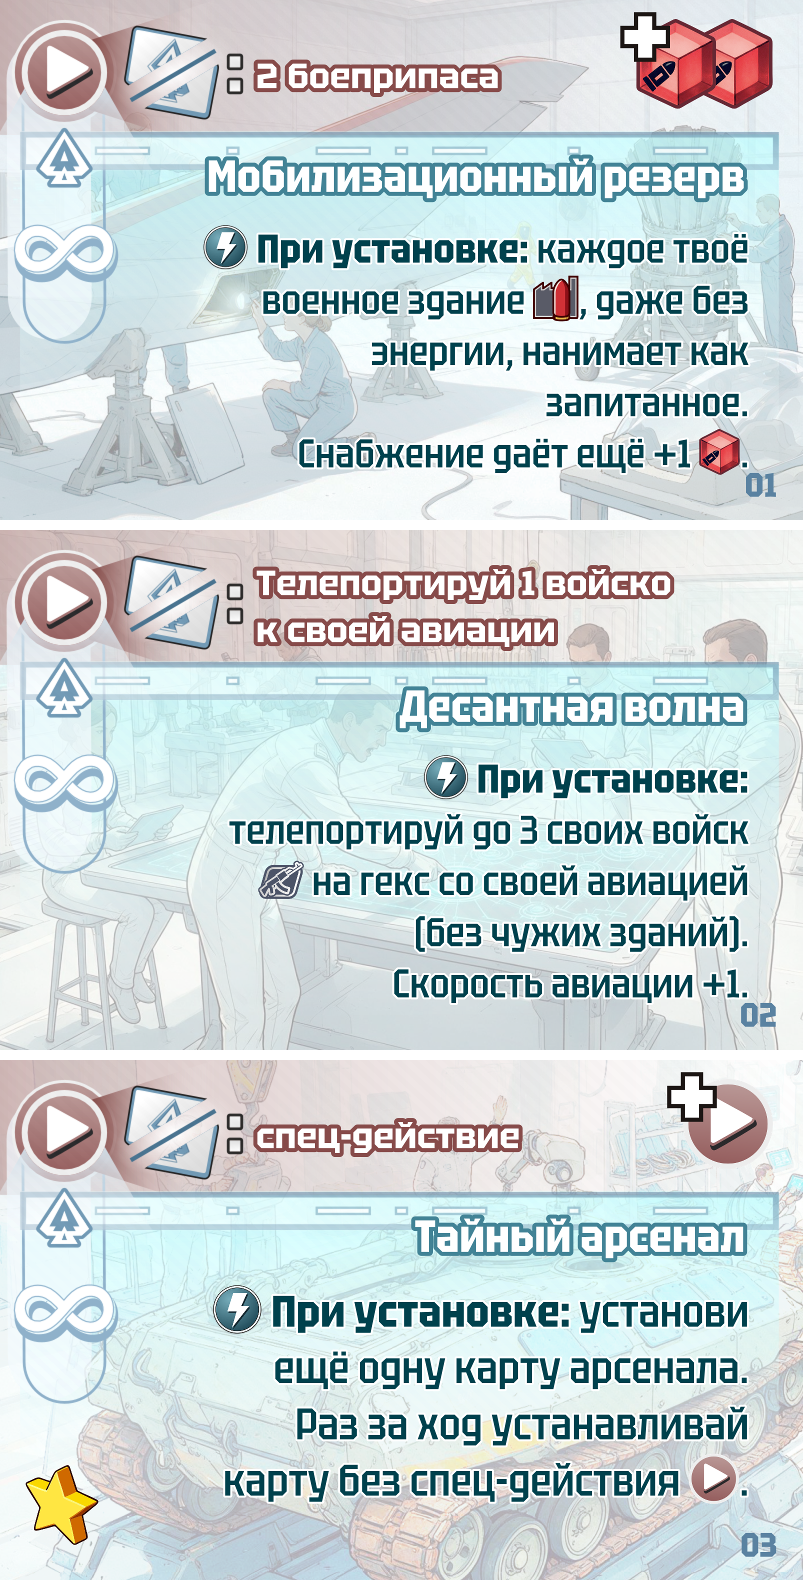
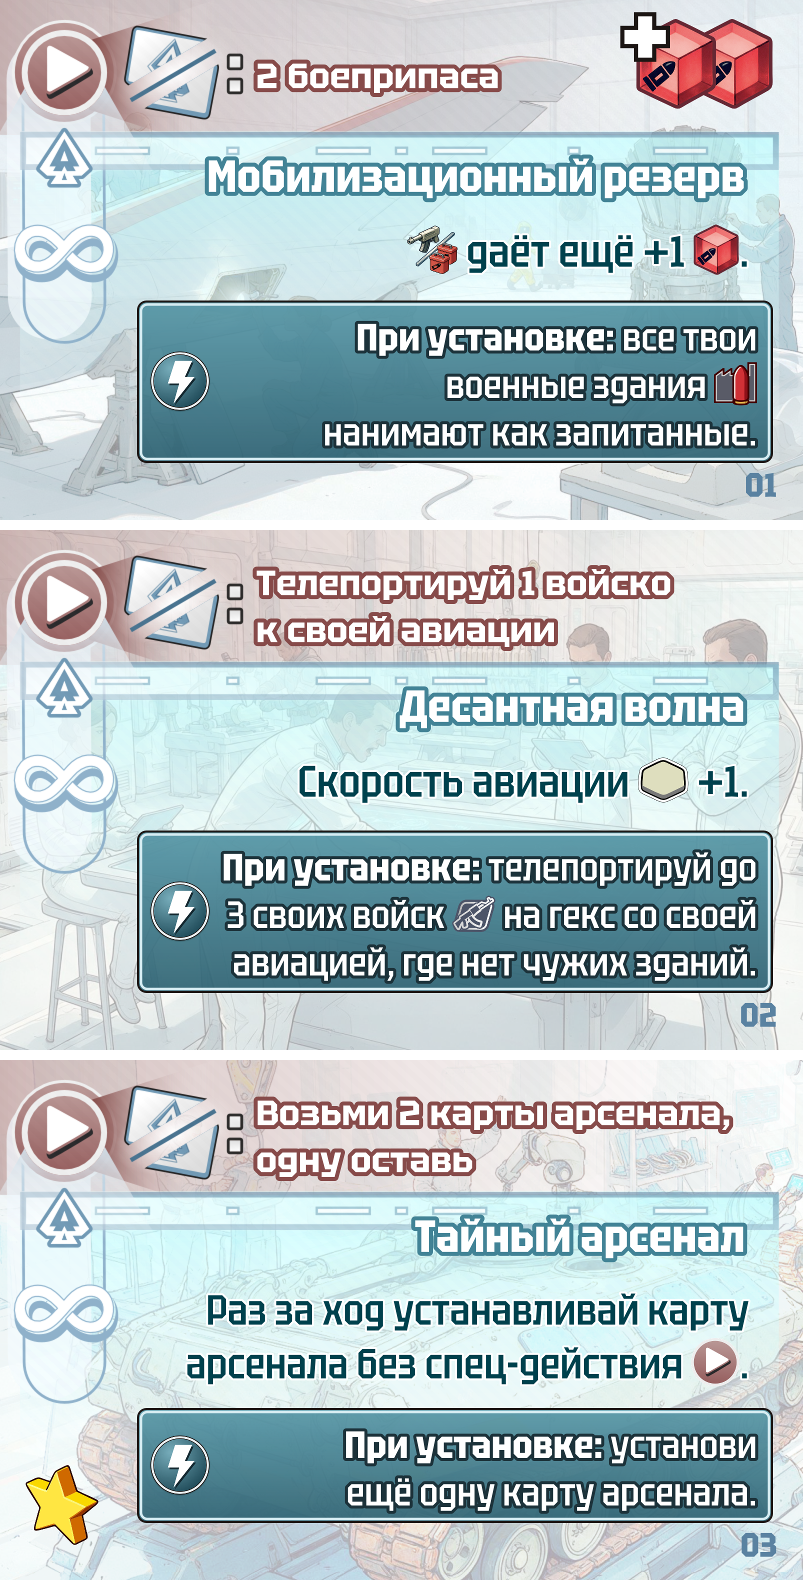
Мастерская: поле «при установке» — разовый эффект внизу на подложке цвета арсенала со значком, постоянный эффект над ней; ровный перенос строк без одинокого слова

diff --git a/gui/src/main/java/kelium/gui/cardshop/CardRender.java b/gui/src/main/java/kelium/gui/cardshop/CardRender.java
@@ -1032,9 +1032,19 @@ public final class CardRender {
             if (c.integer("отступ_слева", 0) <= 0 && lowSize(k, low, 44, leftX, rightX, topY) < 40) {
                 leftX = Math.min(leftX, 150);
             }
-            arsenalLow(k, low, 44, leftX, rightX, th.text(), topY);
+            arsenalLow(k, low, 44, leftX, rightX, th.text(), topY,
+                onInstallTop(k, c, c.integer("отступ_слева", 0) > 0 ? c.integer("отступ_слева", 0) : 150) - 8);
         }
         if (!low.isBlank()) {
+            k.end();
+        }
+        String inst = c.text("при_установке");
+        if (!inst.isBlank()) {
+            double lx = c.integer("отступ_слева", 0) > 0 ? c.integer("отступ_слева", 0) : 150;
+            if (k.begin("при_установке", lx - 12, onInstallTop(k, c, lx), 772 - lx + 12,
+                486 - onInstallTop(k, c, lx))) {
+                onInstallPlate(k, inst, lx, th);
+            }
             k.end();
         }
         if (!c.text("ряд").isBlank()) {
@@ -1238,7 +1248,17 @@ public final class CardRender {
     /** Постоянный эффект: по правому краю, **жирное**, иконки в строке, свой перенос. */
     static void arsenalLow(CardCanvas k, String text, double px, double leftX, double rightX,
                            Color ink, double top) {
-        double bottom = 478;
+        arsenalLow(k, text, px, leftX, rightX, ink, top, 478);
+    }
+
+    /**
+     * Постоянный эффект до нижней границы {@code bottom}. РОВНЫЙ ПЕРЕНОС
+     * (дизайнер 13.10.2026: «зачем перенёс слово на новую строчку, влезло бы в
+     * три»): при том же числе строк ширина ужимается, пока строк не станет
+     * больше, — строки выходят ровными, без одинокого слова в конце.
+     */
+    static void arsenalLow(CardCanvas k, String text, double px, double leftX, double rightX,
+                           Color ink, double top, double bottom) {
         List<String> lines;
         double step;
         Font f;
@@ -1256,12 +1276,96 @@ public final class CardRender {
             }
             px -= 1;
         }
+        lines = balanced(k, text, f, fb, px, (rightX - leftX) * 2, lines.size());
         double y = top + step / 2;
         final double pxF = px;
         for (String l : lines) {
             k.line(l, f, fb, rightX, y, 'r', ink, CardCanvas.WHITE, 2,
                 (t, p) -> arsIcon(k, t, pxF), px, true);
             y += step;
+        }
+    }
+
+    /** Ровный перенос: самая узкая ширина, при которой строк столько же. */
+    static List<String> balanced(CardCanvas k, String text, Font f, Font fb, double px,
+                                 double width, int n) {
+        double lo = width * 0.45;
+        double hi = width;
+        for (int it = 0; it < 18; it++) {
+            double mid = (lo + hi) / 2;
+            int m = 0;
+            for (String para : text.split("\n")) {
+                m += wrapGreedy(k, para, f, fb, px, mid).size();
+            }
+            if (m <= n) {
+                hi = mid;
+            } else {
+                lo = mid;
+            }
+        }
+        List<String> out = new ArrayList<>();
+        for (String para : text.split("\n")) {
+            out.addAll(wrapGreedy(k, para, f, fb, px, hi));
+        }
+        return out;
+    }
+
+    /** Верх подложки «при установке»: по числу строк её текста (нет поля — 478). */
+    static double onInstallTop(CardCanvas k, CardSpec c, double leftX) {
+        String inst = c.text("при_установке");
+        if (inst.isBlank()) {
+            return 486;
+        }
+        int n = onInstallLines(k, inst, leftX).size();
+        return 466 - n * 38 * 1.25 - 22;
+    }
+
+    static List<String> onInstallLines(CardCanvas k, String inst, double leftX) {
+        Font f = k.font("TekturNarrow-Medium.ttf", 38);
+        Font fb = k.font("TekturNarrow-Bold.ttf", 38);
+        double w = (762 - (leftX + 74)) * 2;
+        List<String> l = wrapGreedy(k, inst, f, fb, 38, w);
+        return balanced(k, inst, f, fb, 38, w, l.size());
+    }
+
+    /**
+     * ПОДЛОЖКА «ПРИ УСТАНОВКЕ» (дизайнер 13.10.2026): разовый эффект — внизу, на
+     * своей полосе цвета арсенала со значком слева; прочёл раз — дальше её не
+     * читают. Знак — иконка «при-установке» из экспорта (нет — №27).
+     */
+    static void onInstallPlate(CardCanvas k, String inst, double leftX, Theme th) {
+        java.awt.Graphics2D g = (java.awt.Graphics2D) k.g.create();
+        g.setRenderingHint(java.awt.RenderingHints.KEY_ANTIALIASING,
+            java.awt.RenderingHints.VALUE_ANTIALIAS_ON);
+        List<String> lines = onInstallLines(k, inst, leftX);
+        double top = 466 - lines.size() * 38 * 1.25 - 22;
+        double x0 = (leftX - 12) * 2;
+        double x1 = 772 * 2;
+        double y0 = top * 2;
+        double y1 = 462 * 2;
+        java.awt.geom.RoundRectangle2D r = new java.awt.geom.RoundRectangle2D.Double(
+            x0, y0, x1 - x0, y1 - y0, 34, 34);
+        g.setPaint(new java.awt.GradientPaint((float) x0, (float) y0, new Color(86, 150, 166, 235),
+            (float) x0, (float) y1, new Color(46, 98, 114, 235)));
+        g.fill(r);
+        g.setStroke(new java.awt.BasicStroke(5f));
+        g.setColor(new Color(214, 236, 242));
+        g.draw(new java.awt.geom.RoundRectangle2D.Double(x0 + 6, y0 + 6, x1 - x0 - 12, y1 - y0 - 12,
+            26, 26));
+        g.setColor(new Color(28, 22, 20));
+        g.setStroke(new java.awt.BasicStroke(4f));
+        g.draw(r);
+        g.dispose();
+        String key = k.icon("при-установке") != null ? "при-установке" : "27";
+        double cy = (top + 462) / 2;
+        k.put(key, leftX + 30, cy, 62, 62);
+        Font f = k.font("TekturNarrow-Medium.ttf", 38);
+        Font fb = k.font("TekturNarrow-Bold.ttf", 38);
+        double y = top + 11 + 38 * 1.25 / 2;
+        for (String l : lines) {
+            k.line(l, f, fb, 757, y, 'r', CardCanvas.WHITE, new Color(28, 50, 58), 3,
+                (t, p) -> arsIcon(k, t, 38), 38, true);
+            y += 38 * 1.25;
         }
     }
 
